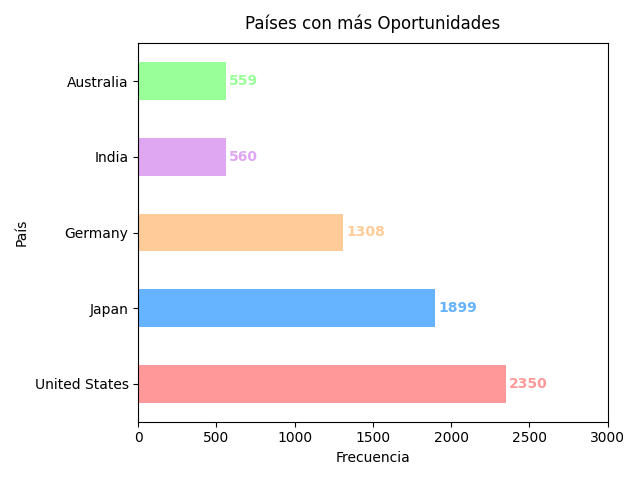
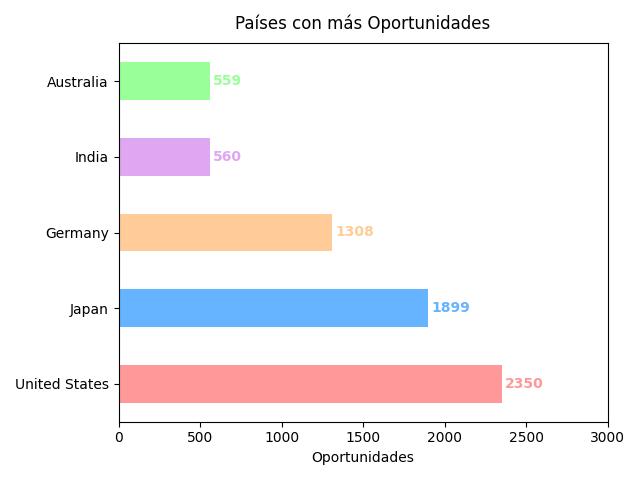
Added Billing_Country improved graphic

diff --git a/Tp1/BySanti/billing_country.py b/Tp1/BySanti/billing_country.py
@@ -38,7 +38,7 @@ def opportunity_owner_top5(df, counter):
         x='País', y='Frecuencia', kind='barh', color=colores, legend=None)
 
     plt.title('Países con más Oportunidades', pad=10)
-    plt.ylabel("País")
+    plt.ylabel("")
     plt.xlabel("Oportunidades")
     plt.xticks(rotation=0)
     plt.xlim(0, 3000)
